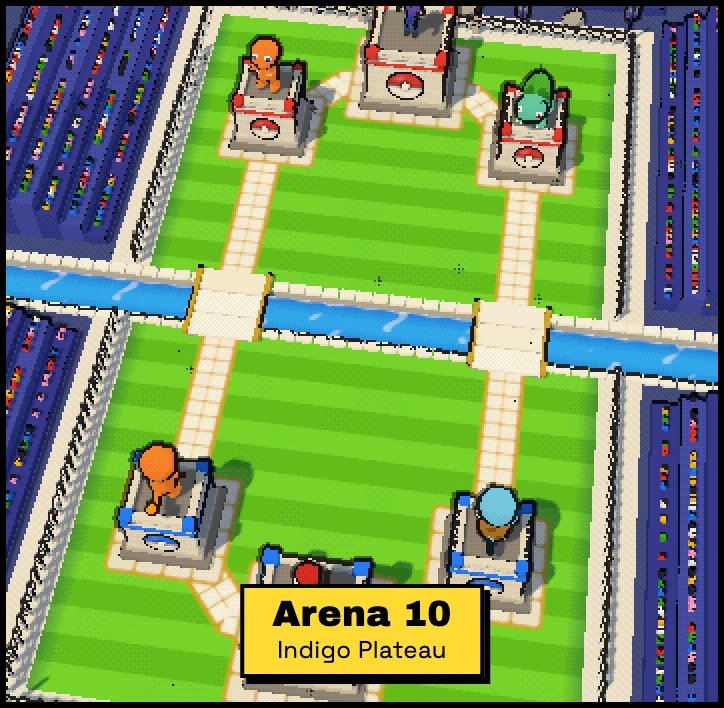
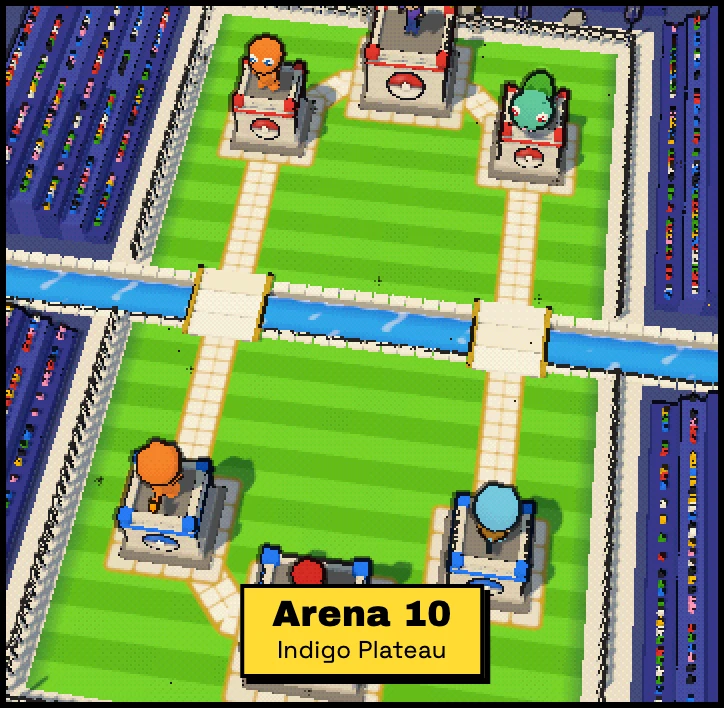
README: 33 cards, toy-like models, retaken screenshots

diff --git a/README.md b/README.md
@@ -34,9 +34,9 @@ Clash Royale–style Pokémon battles, live in your browser. Your king tower is 
 - **Progression**: trainer XP and levels, daily quests, win streaks, and card unlocks by level or League badge. Profiles from before this update keep every card.
 - **Replays**: every battle is recorded (a seed plus the plays) and can be rewatched from match history or shared by link.
 - **Monthly seasons**: on the 1st, each trainer's final trophies and rank go on their profile.
-- **27 Pokémon cards** with Clash Royale–style specialities (evolution, digging, invisibility, healing, chain lightning…) and the real type chart.
+- **33 Pokémon cards** with Clash Royale–style specialities (evolution, digging, invisibility, healing, chain lightning…) and the real type chart.
 - **Starter towers**: pick two of Bulbasaur, Charmander and Squirtle to guard your side.
-- **3D arena** with Blender-built, animated models, cel shading and ink outlines.
+- **3D arena** with toy-like, Blender-built animated models (big heads, stubby limbs), cel shading and ink outlines.
 - **Chiptune sound**: synthesized 8-bit effects and Gen I cries.
 - **No sign-up**: your trainer lives in the browser, and a restore code moves it between devices.
 
@@ -115,7 +115,7 @@ While `pnpm dev` runs, `/sandbox.html` stages scripted fights for tuning animati
 | | |
 |---|---|
 | XP | Every battle pays XP: more for a win, plus a crown bonus, the first win of the day, a streak bonus and quests. Level *n* needs 80 + 40·*n* XP, up to level 30. |
-| Cards | New trainers start with 15 of the 27 cards. The rest unlock in small batches at trainer levels 2 to 6 (legendaries last), and League first clears open some early. |
+| Cards | New trainers start with 15 of the 33 cards. The rest unlock in small batches at trainer levels 2 to 6 (legendaries last), and League first clears open some early. |
 | Quests | Three a day (UTC), drawn from your profile ID and the date, so they're the same on every device. |
 | Stars | 1 for beating a stage, 1 more for losing no tower, 1 more for three crowns. |
 | Arenas | Ten, from Pallet Town (0 trophies) to the Indigo Plateau (1,600). A League stage is fought in its gym's arena (the Elite Four and Champion on the Indigo Plateau); any other battle in the higher-ranked player's. |
